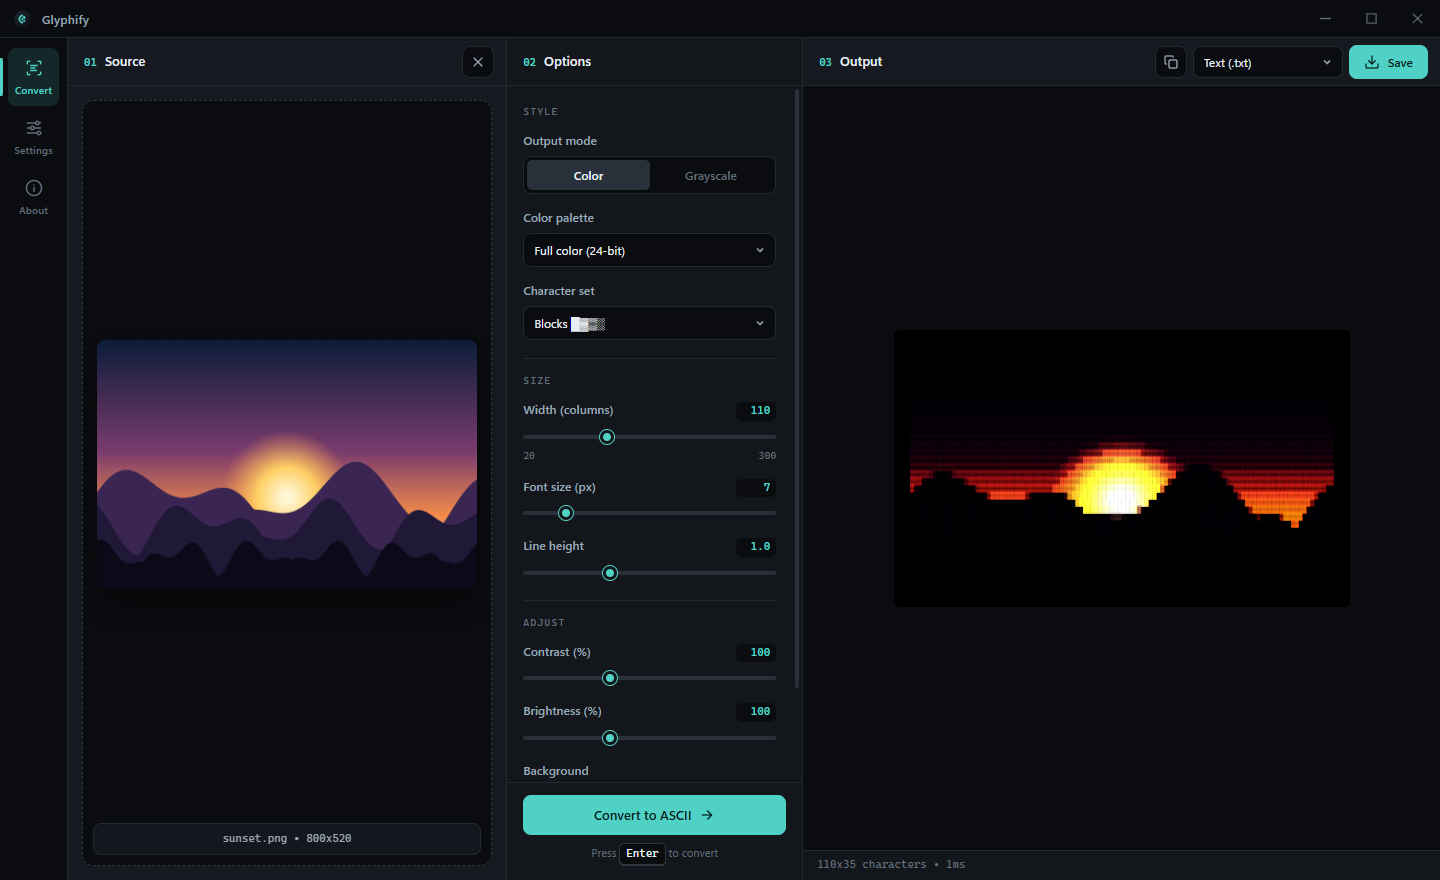
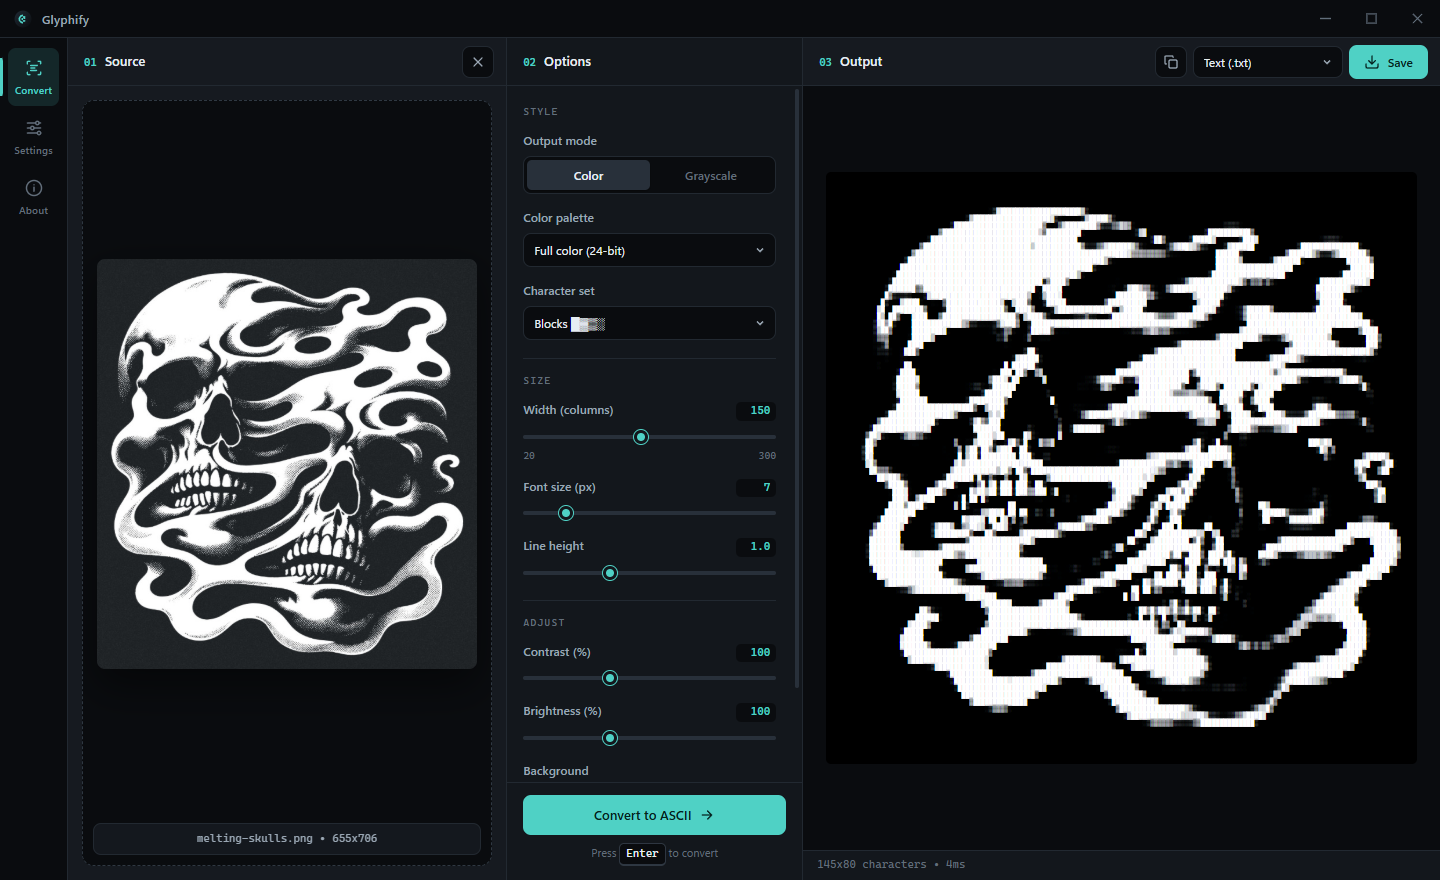
Replace README screenshot with skull block-art preview

diff --git a/README.md b/README.md
@@ -16,7 +16,7 @@
 </p>
 
 <p align="center">
-  <img src="docs/screenshot.png" alt="Glyphify converting an image to colored block-character art" width="900">
+  <img src="docs/screenshot.png" alt="Glyphify converting a melting-skull illustration into block-character art" width="900">
 </p>
 
 ## Download
